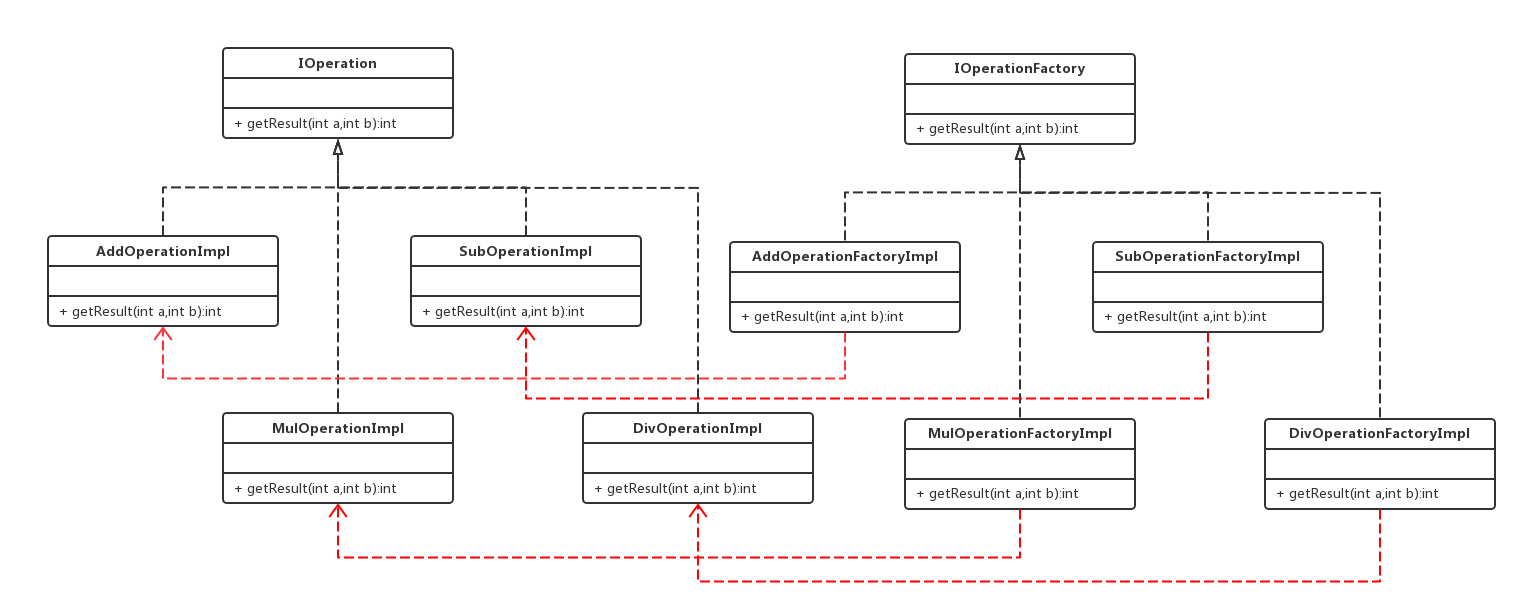
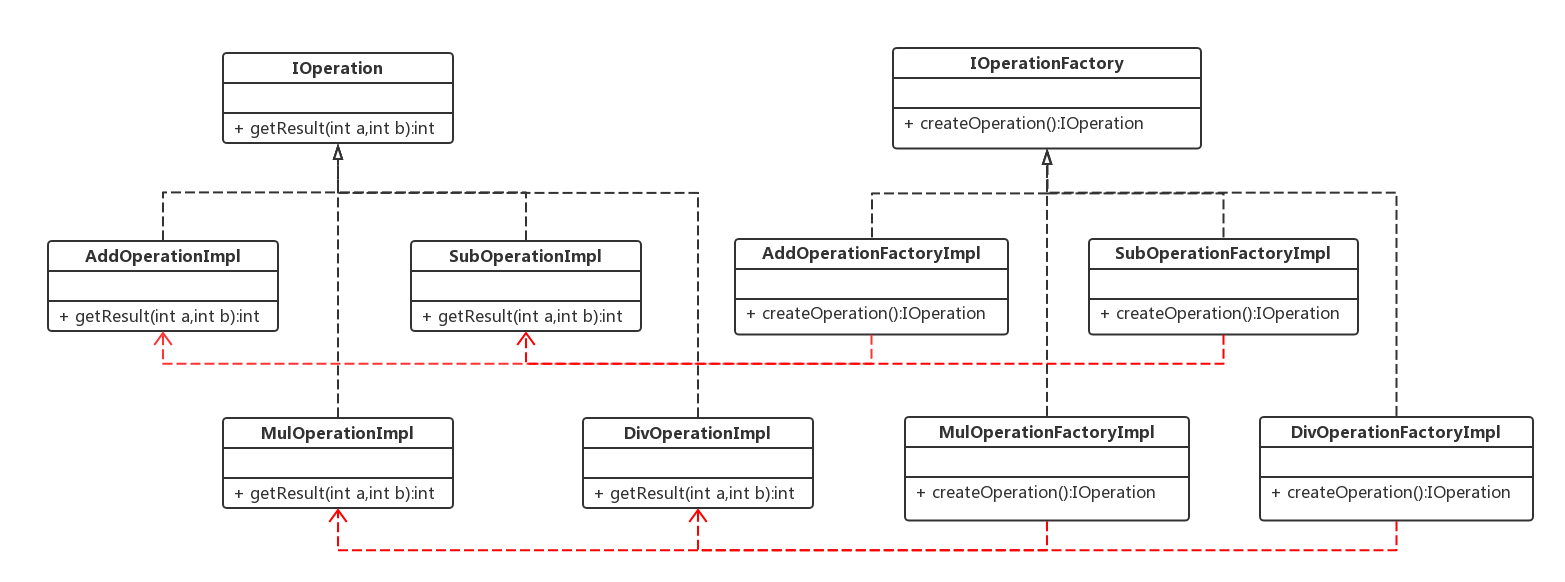
工厂方法实例类图错误修改

diff --git a/适配器模式（adapter pattern）.md b/适配器模式（adapter pattern）.md
@@ -18,6 +18,10 @@
 
 客户端需要一个target（目标）接口，但是不能直接重用已经存在的adaptee（适配者）类，因为它的接口和target接口不一致，所以需要adapter（适配器）将adaptee转换为target接口。前提是target接口和已存在的适配者adaptee类所做的事情是相同或相似，只是接口不同且都不易修改。如果在设计之初，最好不要考虑这种设计模式。凡事都有例外，就是设计新系统的时候考虑使用第三方组件，因为我们就没必要为了迎合它修改自己的设计风格，可以尝试使用适配器模式。
 
+这是一个适配器使用场景的例子：
+
+Sun公司在1996年公开了Java语言的数据库连接工具JDBC，JDBC使得Java语言程序能够与数据库连接，并使用SQL语言来查询和操作数据。JDBC给出一个客户端通用的抽象接口，每一个具体数据库引擎（如SQL Server、Oracle、MySQL等）的JDBC驱动软件都是一个介于JDBC接口和数据库引擎接口之间的适配器软件。抽象的JDBC接口和各个数据库引擎API之间都需要相应的适配器软件，这就是为各个不同数据库引擎准备的驱动程序。
+
 #### 角色
 
 目标角色（target）：这是客户锁期待的接口。目标可以是具体的或抽象的类，也可以是接口
@@ -131,7 +135,7 @@ public class ClassAdapterPatternTest {
 对象适配器模式（object adapter pattern）结构图：
 ![对象适配器模式结构图](https://raw.githubusercontent.com/Mingmingcome/cnblogs/master/images/adapter-object-adapter.jpg)
 
-如上图，与类适配器模式不同的是，Adapter只实现了Target的接口，没有继承Adaptee，而是使用组合的方式引用adaptee。
+如上图，与类适配器模式不同的是，Adapter只实现了Target的接口，没有继承Adaptee，而是使用聚合的方式引用adaptee。
 
 客户端调用对象适配器：
 ![客户端调用对象适配器](https://raw.githubusercontent.com/Mingmingcome/cnblogs/master/images/adapter-object-adapter.png)
@@ -337,7 +341,7 @@ public class DefaultAdapterTest {
 
 类适配器模式，以继承现有类的方式转换。
 
-对象适配器模式，以组合对象实例的方式转换。
+对象适配器模式，以聚合对象实例的方式转换。
 
 接口适配器模式，以实现接口的方式转换。
 

diff --git a/桥接模式（bridge pattern）.md b/桥接模式（bridge pattern）.md
@@ -1,0 +1,6 @@
+`2018年10月21日14:45:06`
+
+## 桥接模式（bridge pattern）
+
+#### 定义
+
